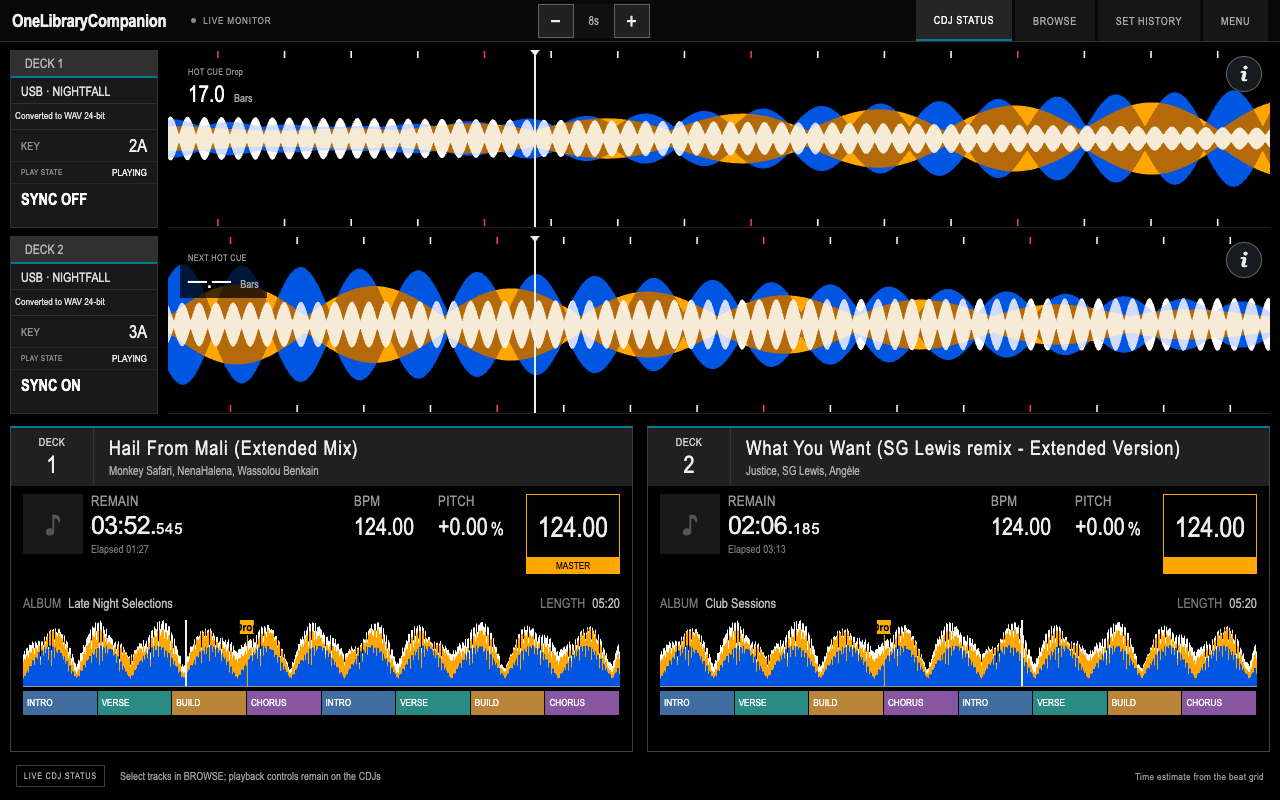
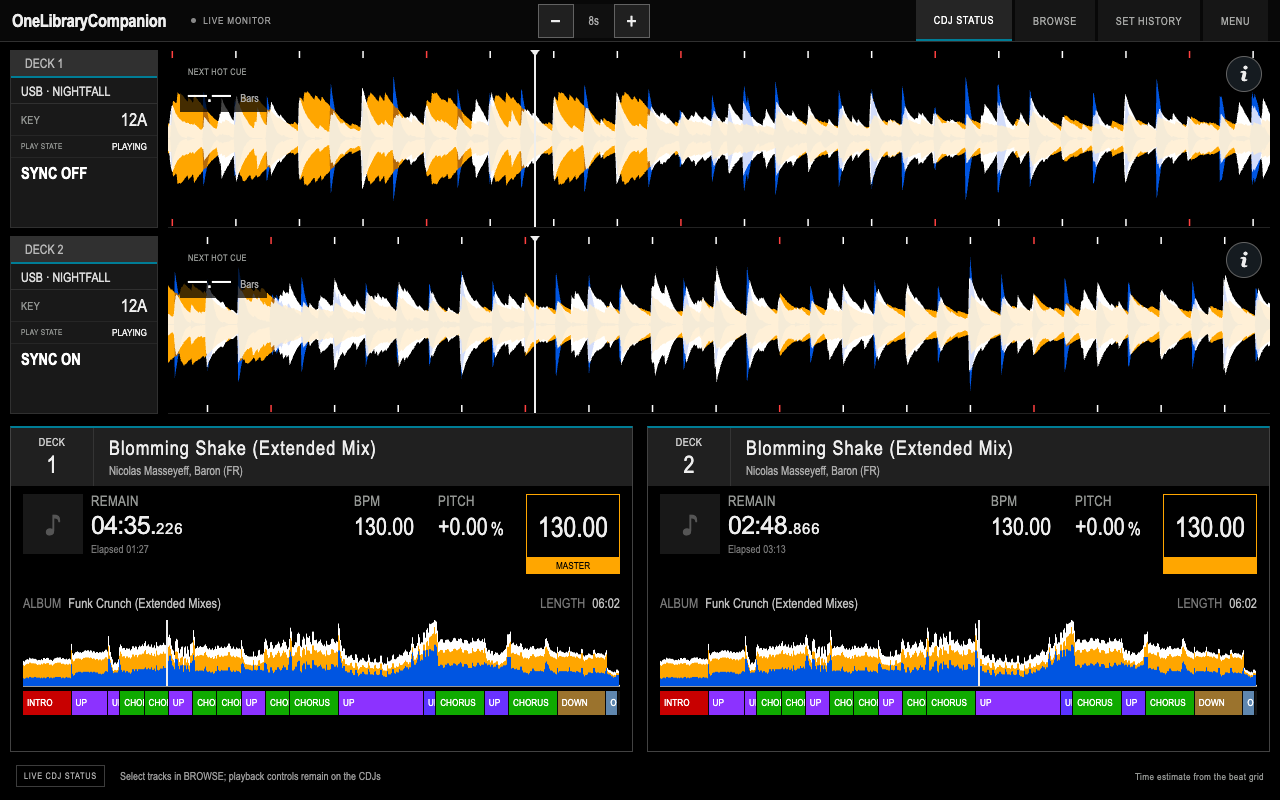
Replace synthetic CDJ status screenshot with real exported waveform data
Show the captured track at two positions, preserving real three-band detail, overview and phrases. Document that playback and connection state are illustrative. Visually verified both decks render fully.

diff --git a/docs/screenshots.md b/docs/screenshots.md
@@ -1,6 +1,6 @@
 # Using OLC
 
-OLC combines live monitoring, music selection and set recording. The screenshots show illustrative active sessions at 1280 × 800; track and connection data are simulated.
+OLC combines live monitoring, music selection and set recording. The screenshots show illustrative active sessions at 1280 × 800; connection and playback states are illustrative. CDJ STATUS uses real exported three-band waveform and phrase data; the same captured track is shown at two different positions. Other screens use a simulated library.
 
 ## CDJ Status — follow the mix
 
@@ -8,7 +8,7 @@ Use CDJ STATUS while performing to compare the two decks' timing and track struc
 
 Use the zoom controls or a two-finger pinch to change the visible time window, tap the time display to switch elapsed/remaining time, and open the information button for fuller track metadata. OLC follows the players; transport and cue controls remain on the CDJs. Waveforms and phrase sections require the corresponding exported analysis.
 
-Converted local tracks show their output format and bit depth on one line in the left panel.
+Converted local tracks show their output format and bit depth on one line in the left panel; this capture shows an original track.
 
 **Current limitation:** a paused player that is not the tempo master does not provide reliable fine waveform tracking for jog movements or scratching. Use the CDJ’s own display and audio for precise cue positioning. As a practical workaround, temporarily make that player the tempo master while cueing for better waveform tracking, then restore the intended master when finished. See [waveform coupling limits](compatibility.md#main-limitation-paused-non-master-waveform-coupling).
 
@@ -53,3 +53,4 @@ Choose the waveform window, playhead placement and color, motion smoothing and b
 Choose which filters appear in BROWSE and arrange them in the order you use them. Set the BPM options and include custom My Tag categories from the selected export. These choices affect how you find music; they do not change the USB or rekordbox library.
 
 ![Menu library filters](screenshots/menu-library-filters.png)
+
